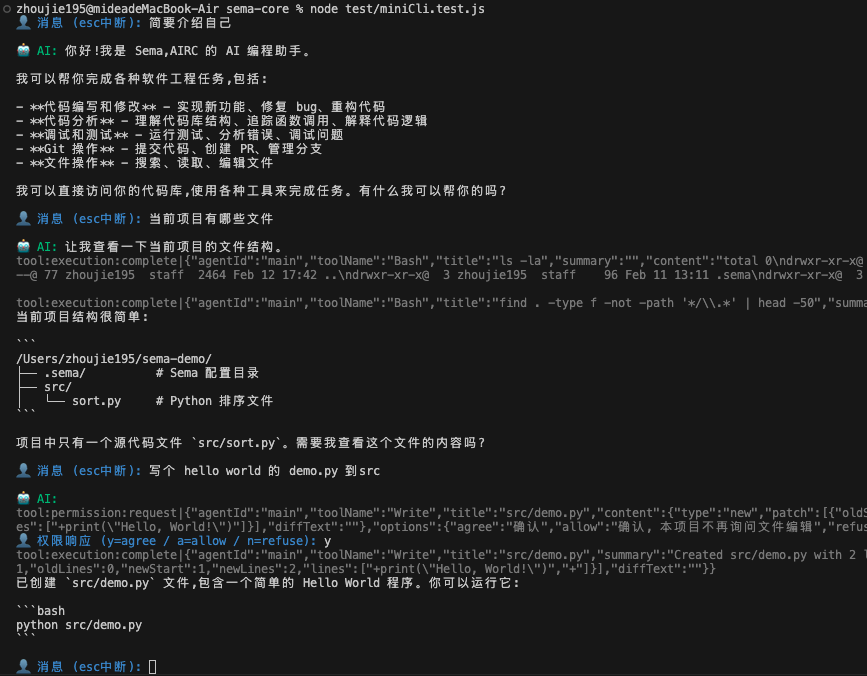
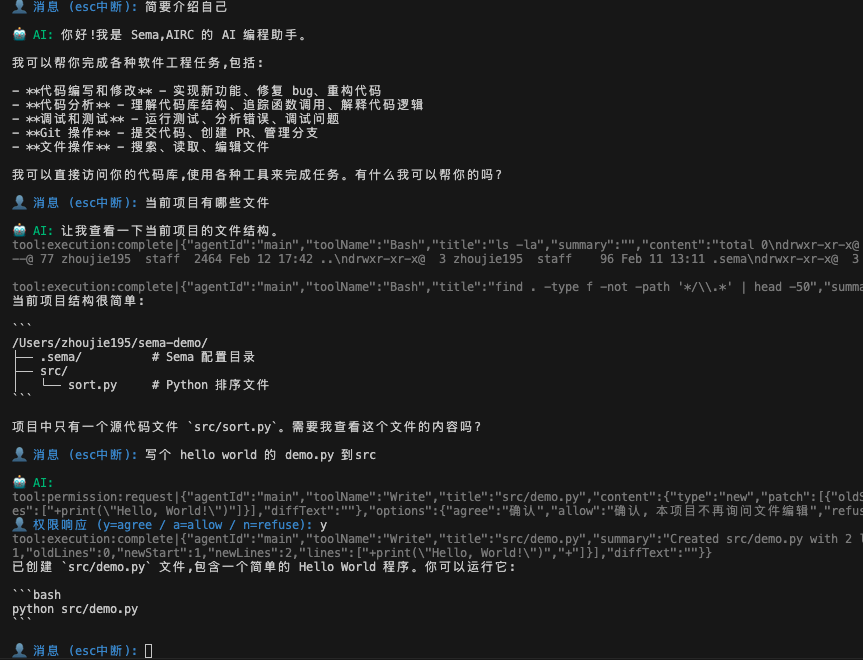
调整快速开始、日志打印

diff --git a/src/services/api/apiUtil.ts b/src/services/api/apiUtil.ts
@@ -143,7 +143,7 @@ function buildCurlCommand(apiUrl: string, apiKey: string, body: object, config: 
 export async function testApiConnection(params: ApiTestParams): Promise<ApiTestResult> {
   const { provider = 'custom-openai', baseURL, apiKey, modelName } = params;
   const adapter = resolveAdapter(provider, modelName);
-  console.log(`adapter: ${adapter}, ${provider}, ${modelName}`)
+  // console.log(`adapter: ${adapter}, ${provider}, ${modelName}`)
   const config = API_CONFIGS[adapter] || API_CONFIGS.openai;
 
   const apiUrl = buildApiUrl(baseURL, config.endpoint, adapter, provider);
@@ -158,7 +158,7 @@ export async function testApiConnection(params: ApiTestParams): Promise<ApiTestR
       body: JSON.stringify(body)
     });
 
-    console.log('testApiConnection response:', response.statusCode, response.data.substring(0, 500));
+    // console.log('testApiConnection response:', response.statusCode, response.data.substring(0, 500));
 
     let result: ApiTestResult;
 
@@ -174,7 +174,7 @@ export async function testApiConnection(params: ApiTestParams): Promise<ApiTestR
       result = { success: false, message: errorMessage, curlCommand };
     }
 
-    console.log('testApiConnection result:', JSON.stringify(result, null, 2));
+    // console.log('testApiConnection result:', JSON.stringify(result, null, 2));
     return result;
 
   } catch (error) {
@@ -183,7 +183,7 @@ export async function testApiConnection(params: ApiTestParams): Promise<ApiTestR
       message: `✗ ${error instanceof Error ? error.message : String(error)}`,
       curlCommand
     };
-    console.log('testApiConnection result:', JSON.stringify(result, null, 2));
+    // console.log('testApiConnection result:', JSON.stringify(result, null, 2));
     return result;
   }
 }
@@ -223,7 +223,7 @@ export async function fetchModels(params: FetchModelsParams): Promise<FetchModel
   const providerConfig = MODEL_MAP[provider as keyof typeof MODEL_MAP];
   if (providerConfig && baseURL === providerConfig.baseURL) {
     result = { success: true, models: providerConfig.models };
-    console.log('fetchModels result:', JSON.stringify(result, null, 2));
+    // console.log('fetchModels result:', JSON.stringify(result, null, 2));
     return result;
   }
 
@@ -238,7 +238,7 @@ export async function fetchModels(params: FetchModelsParams): Promise<FetchModel
   -H "Content-Type: application/json" \\
   -H "Authorization: Bearer ${apiKey}"`;
 
-  console.log('curlCommand:', curlCommand)
+  // console.log('curlCommand:', curlCommand)
 
   try {
     const response = await httpRequest({ url: apiUrl, method: 'GET', headers });
@@ -247,7 +247,7 @@ export async function fetchModels(params: FetchModelsParams): Promise<FetchModel
       const jsonResponse = JSON.parse(response.data);
       const models = jsonResponse.data || [];
 
-      console.log('models:', models)
+      // console.log('models:', models)
 
       if (models.length === 0) {
         result = { success: false, message: '获取模型列表为空', curlCommand };
@@ -269,6 +269,6 @@ export async function fetchModels(params: FetchModelsParams): Promise<FetchModel
     };
   }
 
-  console.log('fetchModels result:', JSON.stringify(result, null, 2));
+  // console.log('fetchModels result:', JSON.stringify(result, null, 2));
   return result;
 }

diff --git a/src/tools/Read/Read.ts b/src/tools/Read/Read.ts
@@ -13,6 +13,7 @@ import { secureFileService } from '../../util/secureFile'
 import { getStateManager } from '../../manager/StateManager'
 import { readNotebook, formatNotebookCells } from '../../util/notebook'
 import { NotebookCellData } from '../../types/notebook'
+import { logDebug, logWarn, logInfo } from '../../util/log'
 
 const MAX_LINES_TO_RENDER = 5
 const MAX_OUTPUT_SIZE = 0.25 * 1024 * 1024 // 0.25MB in bytes
@@ -101,10 +102,10 @@ export const FileReadTool = {
           `Temporary directories: /tmp, /var/tmp`
         ]
 
-        console.log('🚫 ReadTool: File access denied')
-        console.log(`📁 Requested path: ${fullFilePath}`)
-        console.log('📋 Currently allowed base paths:')
-        allowedPaths.forEach(path => console.log(`  - ${path}`))
+        logWarn('ReadTool: File access denied')
+        logDebug(`Requested path: ${fullFilePath}`)
+        logDebug('Currently allowed base paths:')
+        allowedPaths.forEach(path => logDebug(`  - ${path}`))
 
         message += '\n\nCurrently allowed base paths:\n' + allowedPaths.map(p => `  - ${p}`).join('\n')
       } else {

diff --git a/src/util/secureFile.ts b/src/util/secureFile.ts
@@ -3,6 +3,7 @@ import { dirname, normalize, resolve, extname, relative, isAbsolute } from 'node
 import { homedir } from 'node:os'
 import { normalizeFilePath } from './file'
 import { getCwd } from './cwd'
+import { logDebug } from './log'
 
 /**
  * 安全文件系统操作服务
@@ -119,11 +120,11 @@ export class SecureFileService {
           return true
         }
         if (rel.startsWith('..')) {
-          console.log(`[SecureFileService] ❌ 向上跳出路径，拒绝访问`)
+          logDebug('[SecureFileService] 向上跳出路径，拒绝访问')
           return false
         }
         if (isAbsolute(rel)) {
-          console.log(`[SecureFileService] ❌ 绝对相对路径，拒绝访问`)
+          logDebug('[SecureFileService] 绝对相对路径，拒绝访问')
           return false
         }
         // console.log(`[SecureFileService] ✅ 子路径，允许访问`)

diff --git a/docs/wiki/getting-started/quick-start.md b/docs/wiki/getting-started/quick-start.md
@@ -1,175 +1,38 @@
 # 快速开始
 
-## 安装
+### 1. 新建项目并安装依赖
 
 ```bash
+mkdir my-app && cd my-app
+npm init -y
 npm install sema-core
 ```
 
-**前置条件**：Node.js >= 18，以及至少一个 LLM 提供商的 API Key。
+### 2. 下载示例文件
 
-## 最简示例
+将 [quickstart.mjs](https://github.com/midea-ai/sema-code-core/tree/main/example/quickstart.mjs) 下载到 `my-app` 目录，然后修改以下两处配置：
 
-```javascript
-import { SemaCore } from 'sema-core'
-
-// 1. 创建实例
-const sema = new SemaCore({
-  '/path/to/your/project', // 修改为你的项目路径
-})
-
-// 2. 添加模型
-// 配置模型（以 DeepSeek 为例，更多提供商见"新增模型"文档）
-const modelConfig = {
-  provider: 'deepseek',
-  modelName: 'deepseek-chat',
-  baseURL: 'https://api.deepseek.com/anthropic',
-  apiKey: 'sk-your-api-key', // 替换为你的 API Key
-  maxTokens: 8192,
-  contextLength: 128000
-};
-const modelId = `${modelConfig.modelName}[${modelConfig.provider}]`;
-await core.addModel(modelConfig);
-await core.applyTaskModel({ main: modelId, quick: modelId });
-
-// 3. 监听流式文本输出
-sema.on('message:text:chunk', ({ delta }) => {
-  process.stdout.write(delta ?? '')
-})
-
-// 4. 监听工具执行
-sema.on('tool:execution:complete', ({ toolName, summary }) => {
-  console.log(`\n[${toolName}] ${summary}`)
-})
-
-// 5. 处理权限请求
-sema.on('tool:permission:request', ({ toolName }) => {
-  // 自动同意（生产环境请实现交互式确认）
-  sema.respondToToolPermission({ toolName, selected: 'agree' })
-})
-
-// 6. 监听完成信号
-sema.on('state:update', ({ state }) => {
-  if (state === 'idle') console.log('\n--- 完成 ---\n')
-})
-
-// 7. 创建会话并发送消息
-await sema.createSession()
-sema.processUserInput('帮我分析这个项目的代码结构')
-```
-
-## 交互式 CLI 示例
-
-以下是一个完整的命令行对话示例（保存为 `quickstart.mjs` 并执行 `node quickstart.mjs`）：
-
-```javascript
-import { SemaCore } from 'sema-core';
-import readline from 'readline';
-
+```js
 const core = new SemaCore({
-  workingDir: '/path/to/your/project', // 修改为你的项目路径
-  logLevel: 'none',
-  thinking: false
+  workingDir: '/path/to/your/project', // Agent 将操作的目标代码仓库路径
+  ...
 });
 
-// 配置模型（以 DeepSeek 为例，更多提供商见"新增模型"文档）
 const modelConfig = {
-  provider: 'deepseek',
-  modelName: 'deepseek-chat',
-  baseURL: 'https://api.deepseek.com/anthropic',
   apiKey: 'sk-your-api-key', // 替换为你的 API Key
-  maxTokens: 8192,
-  contextLength: 128000
+  ...
 };
-
-const modelId = `${modelConfig.modelName}[${modelConfig.provider}]`;
-await core.addModel(modelConfig);
-await core.applyTaskModel({ main: modelId, quick: modelId });
-
-let sessionId = null;
-let rl = null;
-
-function createRl() {
-  if (rl) rl.close();
-  rl = readline.createInterface({ input: process.stdin, output: process.stdout });
-  return rl;
-}
-
-function prompt(question) {
-  return new Promise((resolve) => {
-    if (!rl) createRl();
-    rl.question(question, resolve);
-  });
-}
-
-const gray = (s) => `\x1b[90m${s}\x1b[0m`;
-const blue = (s) => `\x1b[34m${s}\x1b[0m`;
-const green = (s) => `\x1b[32m${s}\x1b[0m`;
-
-async function run() {
-  // 创建会话
-  await new Promise((resolve) => {
-    core.once('session:ready', (data) => { sessionId = data.sessionId; resolve(); });
-    core.createSession();
-  });
-
-  // Ctrl+C / ESC 中断
-  process.on('SIGINT', () => {
-    console.log('\n⚠  中断会话...');
-    if (sessionId) core.interruptSession();
-    else { rl && rl.close(); process.exit(0); }
-  });
-  readline.emitKeypressEvents(process.stdin);
-  if (process.stdin.isTTY) process.stdin.setRawMode(true);
-  process.stdin.on('keypress', (str, key) => {
-    if (key && key.name === 'escape') core.interruptSession();
-  });
-
-  // 事件日志
-  const events = [
-    'tool:execution:start', 'tool:execution:complete', 'tool:execution:error',
-    'task:agent:start', 'task:agent:end', 'todos:update', 'session:interrupted'
-  ];
-  events.forEach(e => core.on(e, (data) => console.log(gray(`${e}|${JSON.stringify(data)}`))));
-
-  // 流式输出
-  core.on('message:text:chunk', ({ delta }) => process.stdout.write(delta || ''));
-  core.on('message:complete', () => process.stdout.write('\n'));
-
-  // 权限交互
-  core.on('tool:permission:request', async (data) => {
-    const answer = await prompt(blue('👤 权限响应 (y=agree / a=allow / n=refuse): '));
-    const map = { y: 'agree', a: 'allow', n: 'refuse' };
-    core.respondToToolPermission({ toolName: data.toolName, selected: map[answer.trim()] || 'agree' });
-  });
-
-  // 对话循环
-  await new Promise((resolve, reject) => {
-    core.once('session:error', (data) => reject(new Error(data.message)));
-    core.on('state:update', async ({ state }) => {
-      if (state === 'idle') {
-        setTimeout(async () => {
-          const input = (await prompt(blue('\n👤 消息 (esc中断): '))).trim();
-          if (input === 'exit' || input === 'quit') { resolve(); return; }
-          if (input) { process.stdout.write('\n' + green('🤖 AI: ')); core.processUserInput(input); }
-        }, 100);
-      }
-    });
-    (async () => {
-      const input = (await prompt(blue('👤 消息 (esc中断): '))).trim();
-      if (input === 'exit' || input === 'quit') { resolve(); return; }
-      if (input) { process.stdout.write('\n' + green('🤖 AI: ')); core.processUserInput(input); }
-    })();
-  });
-
-  console.log('\n=== 会话结束 ===');
-  rl && rl.close();
-  process.exit(0);
-}
-
-run().catch((err) => { console.error('错误:', err); rl && rl.close(); process.exit(1); });
 ```
 
+更多模型配置参考[模型管理](wiki/getting-started/basic-usage/add-new-model)
+
+### 3. 运行
+
+```bash
+node quickstart.mjs
+```
+
+<img src="images/mini-cli.png" alt="miniCli" />
 
 ## 关键概念
 

diff --git a/README.md b/README.md
@@ -1,6 +1,6 @@
 <div align="center">
 
-<img src="./imgs/logo.png" alt="Sema Code Core Logo" width="75%"/>
+<img src="./docs/images/semacode-logo.png" alt="Sema Code Core Logo" width="75%"/>
 
 <h3>An Event-Driven AI Coding Assistant Core Engine</h3>
 
@@ -79,6 +79,8 @@ A Skill web application based on Sema Code Core, integrating Agent Skill Browser
 ### Installation
 
 ```bash
+mkdir my-app && cd my-app
+npm init -y
 npm install sema-core
 ```
 
@@ -92,8 +94,7 @@ node quickstart.mjs
 
 ### Minimal Example
 
-```javascript
-import { SemaCore } from 'sema-core'
+将 [quickstart.mjs](https://github.com/midea-ai/sema-code-core/tree/main/example/quickstart.mjs) 下载到 `my-app` 目录，然后修改以下两处配置：
 
 // 1. Create an instance
 const sema = new SemaCore({
